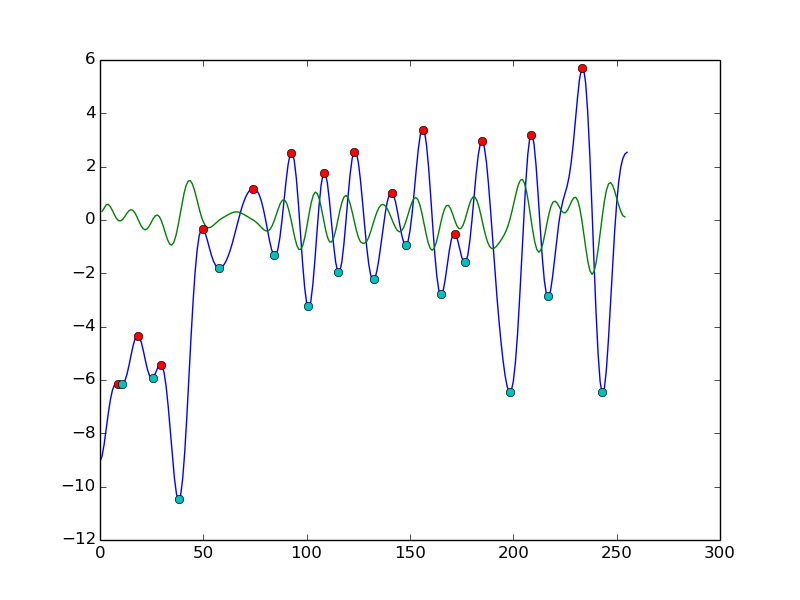
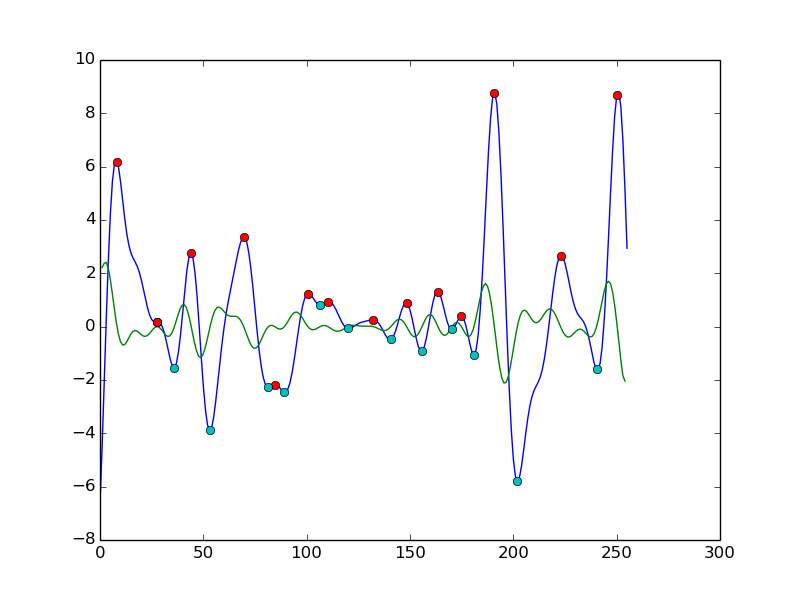
extracting all features + bugfix newton

diff --git a/main.py b/main.py
@@ -26,7 +26,7 @@ def main(argv):
     frame_size = 128
     frame_overlap = 64
 
-    data_present = True
+    data_present = False
 
     if not data_present:
         # Load all the data
@@ -54,12 +54,20 @@ def main(argv):
         wav_feature_extractor = WaveletFeatureExtractor()
         # Extract features from the frames
         bumpy_data_set = list()
+        raw_data_count = 1
         for framed_raw_data in framed_raw_data_list:
+            frame_count = 0
+            length = len(framed_raw_data.get_frames())
             for frame in framed_raw_data.get_frames():
+                print str(raw_data_count)+": "+str(round((frame_count/float(length))*100, 2))+" %"
                 featured_frame = time_feature_extractor.extract_features(frame)
                 featured_frame = freq_feature_extractor.extract_features(featured_frame)
                 # featured_frame = wav_feature_extractor.extract_features(featured_frame)
                 bumpy_data_set.append(featured_frame)
+                frame_count = frame_count + 1
+            print str(raw_data_count)+": 100 %"
+            print ""
+            raw_data_count = raw_data_count + 1
         with open('bin.dat', 'wb') as f:
             pickle.dump(bumpy_data_set, f)
     else:

diff --git a/feature_extraction/feature_extractor.py b/feature_extraction/feature_extractor.py
@@ -1,6 +1,9 @@
 import abc
 import numpy as np
 from scipy import optimize
+import matplotlib
+matplotlib.use('Agg')
+import matplotlib.pyplot as plt
 
 class FeatureExtractor:
     __metaclass__ = abc.ABCMeta
@@ -11,14 +14,22 @@ class FeatureExtractor:
 
     def calculate_all_roots(self, f, range):
         roots = list()
-        sign = 'minus' if f(1) < 0 else 'plus'
+        sign = 'minus' if f(range[0]) < 0 else 'plus'
+        index = 0
         for i in range:
             if sign == 'minus' and f(i) >= 0:
                 sign = 'plus'
-                root = optimize.newton(f, i)
+                try:
+                    root = optimize.newton(f, i)
+                except ValueError:
+                    root = optimize.bisect(f, i, range[index-1])
                 roots.append(root)
             if sign == 'plus' and f(i) <= 0:
                 sign = 'minus'
-                root = optimize.newton(f, i)
+                try:
+                    root = optimize.newton(f, i)
+                except ValueError:
+                    root = optimize.bisect(f, i, range[index-1])
                 roots.append(root)
+            index = index+1
         return roots

diff --git a/test.py b/test.py
@@ -16,7 +16,7 @@ for raw_data in raw_data_list:
     framer.frame(raw_data)
 
 framed_raw_data_list = framer.get_framed_raw_data_list()
-frame = framed_raw_data_list[0].get_frames()[0]
+frame = framed_raw_data_list[3].get_frames()[7]
 
 feature_extractor = TimeDomainFeatureExtractor()
 frame = feature_extractor.extract_features(frame)
